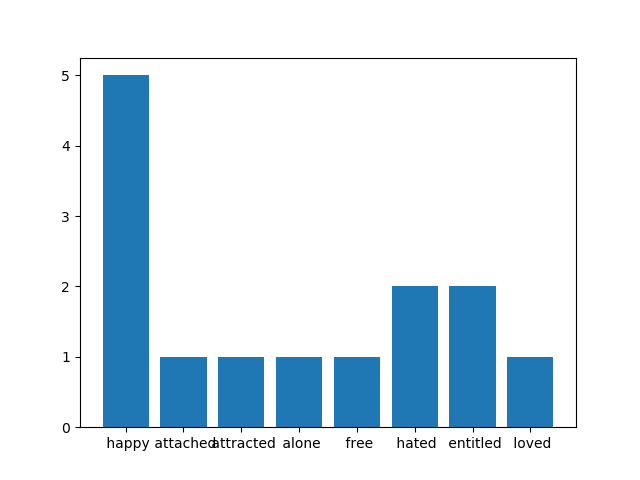
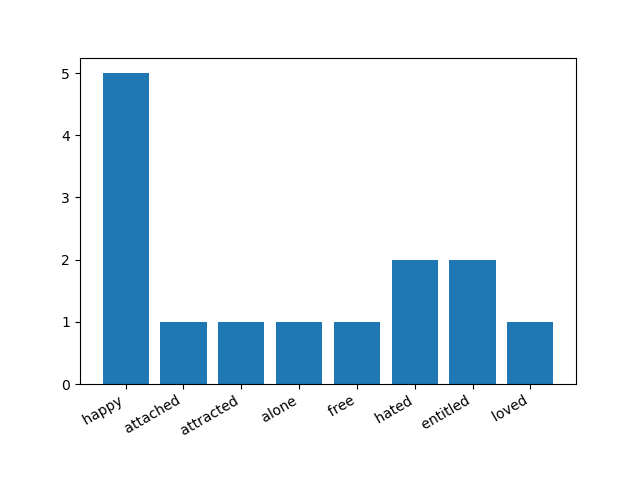
NO NLTK. Shows emotions of text and displays them using in a graph with Matplotlib Inn this Commit added NLTK and improved matplotlib graph

diff --git a/main_nltk.py b/main_nltk.py
@@ -1,0 +1,59 @@
+import string
+from collections import Counter
+
+import matplotlib.pyplot as plt
+from nltk.corpus import stopwords
+from nltk.sentiment.vader import SentimentIntensityAnalyzer
+from nltk.stem import WordNetLemmatizer
+from nltk.tokenize import word_tokenize
+
+text = open('read.txt', encoding='utf-8').read()
+lower_case = text.lower()
+cleaned_text = lower_case.translate(str.maketrans('', '', string.punctuation))
+
+# Using word_tokenize because it's faster than split()
+tokenized_words = word_tokenize(cleaned_text, "english")
+
+# Removing Stop Words
+final_words = []
+for word in tokenized_words:
+    if word not in stopwords.words('english'):
+        final_words.append(word)
+
+# Lemmatization - From plural to single + Base form of a word (example better-> good)
+lemma_words = []
+for word in final_words:
+    word = WordNetLemmatizer().lemmatize(word)
+    lemma_words.append(word)
+
+emotion_list = []
+with open('emotions.txt', 'r') as file:
+    for line in file:
+        clear_line = line.replace("\n", '').replace(",", '').replace("'", '').strip()
+        word, emotion = clear_line.split(':')
+
+        if word in lemma_words:
+            emotion_list.append(emotion)
+
+print(emotion_list)
+w = Counter(emotion_list)
+print(w)
+
+
+def sentiment_analyse(sentiment_text):
+    score = SentimentIntensityAnalyzer().polarity_scores(sentiment_text)
+    if score['neg'] > score['pos']:
+        print("Negative Sentiment")
+    elif score['neg'] < score['pos']:
+        print("Positive Sentiment")
+    else:
+        print("Neutral Sentiment")
+
+
+sentiment_analyse(cleaned_text)
+
+fig, ax1 = plt.subplots()
+ax1.bar(w.keys(), w.values())
+fig.autofmt_xdate()
+plt.savefig('graph.png')
+plt.show()

diff --git a/main.py b/main.py
@@ -1,5 +1,6 @@
 import string
 from collections import Counter
+
 import matplotlib.pyplot as plt
 
 # reading text file
@@ -26,20 +27,37 @@ stop_words = ["i", "me", "my", "myself", "we", "our", "ours", "ourselves", "you"
               "too", "very", "s", "t", "can", "will", "just", "don", "should", "now"]
 
 # Removing stop words from the tokenized words list
-final_words = [word for word in tokenized_words if word not in stop_words]
+final_words = []
+for word in tokenized_words:
+    if word not in stop_words:
+        final_words.append(word)
 
-# Get emotions text
+# NLP Emotion Algorithm
+# 1) Check if the word in the final word list is also present in emotion.txt
+#  - open the emotion file
+#  - Loop through each line and clear it
+#  - Extract the word and emotion using split
+
+# 2) If word is present -> Add the emotion to emotion_list
+# 3) Finally count each emotion in the emotion list
+
 emotion_list = []
 with open('emotions.txt', 'r') as file:
     for line in file:
-        clear_line = line.replace('\n', '').replace(',', '').replace("'", '').strip()
+        clear_line = line.replace("\n", '').replace(",", '').replace("'", '').strip()
         word, emotion = clear_line.split(':')
+
         if word in final_words:
             emotion_list.append(emotion)
 
+print(emotion_list)
 w = Counter(emotion_list)
 print(w)
-plt.bar (w.keys(), w.values())
 
+# Plotting the emotions on the graph
+
+fig, ax1 = plt.subplots()
+ax1.bar(w.keys(), w.values())
+fig.autofmt_xdate()
 plt.savefig('graph.png')
 plt.show()

diff --git a/settings.py b/settings.py
@@ -1,0 +1,2 @@
+import nltk
+nltk.download()
